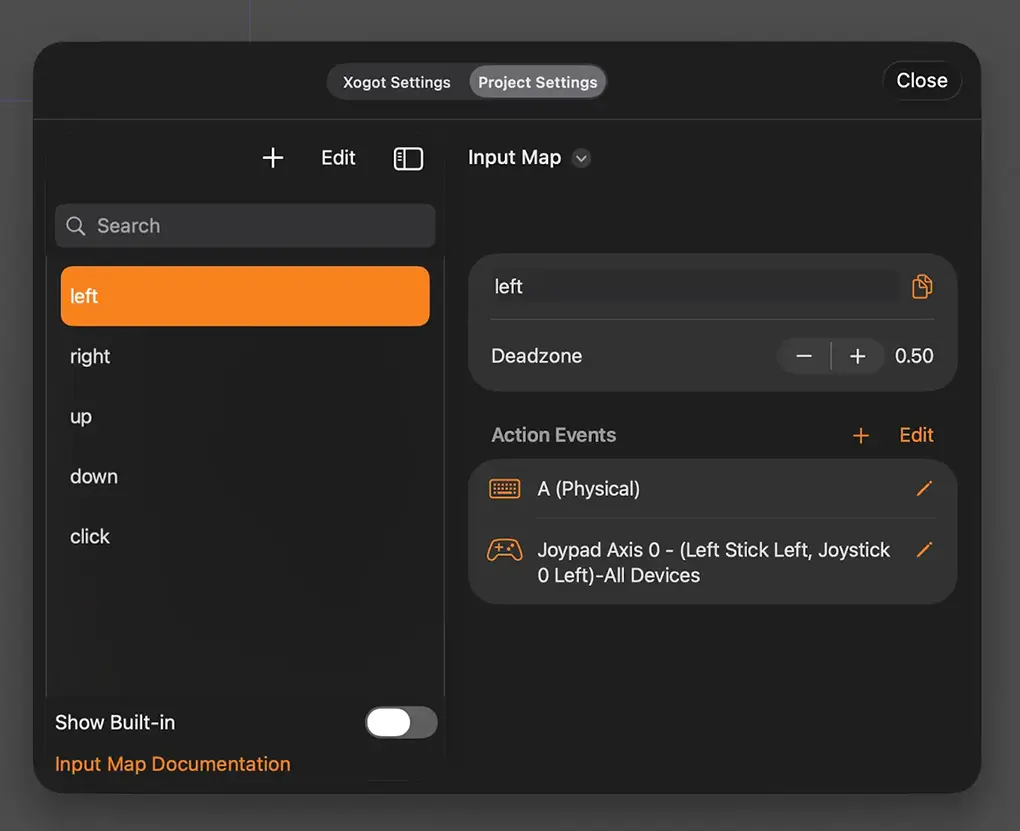
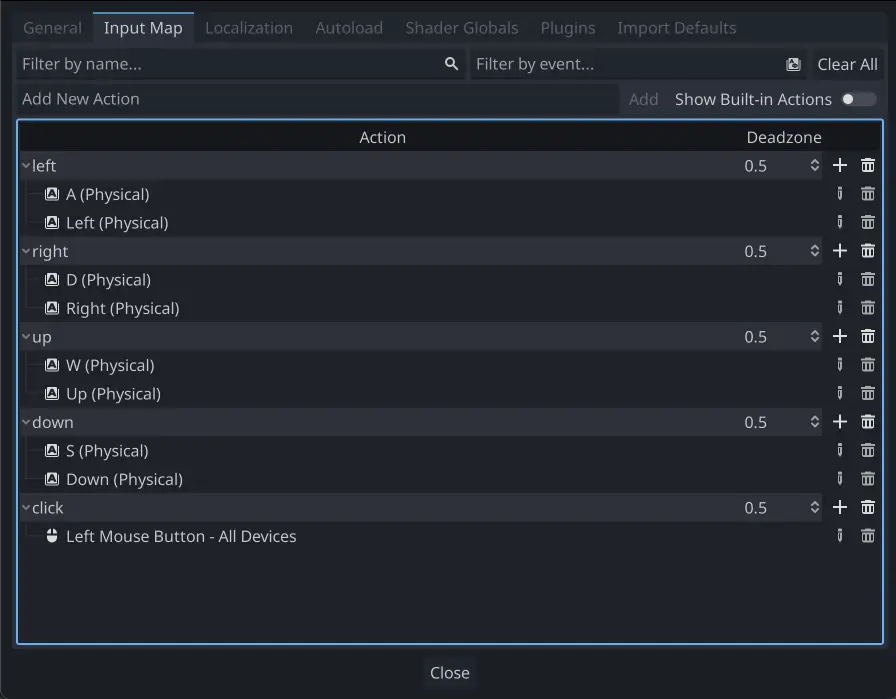
Revise 2D movement manual and update input image
Streamlined the 2D movement documentation by removing embedded code samples and video links, clarifying instructions, and updating the sample project download link. Also replaced the movement_inputs.png image to reflect the latest input mapping.

diff --git a/Documentation.docc/Manual/2d/2d_movement.md b/Documentation.docc/Manual/2d/2d_movement.md
@@ -1,3 +1,4 @@
+<!-- Remove this line to publish to docs.xogot.com -->
 # 2D movement overview
 
 ## Introduction
@@ -15,34 +16,18 @@ Each example below uses the same scene setup. Start with a CharacterBody2D with 
 children: Sprite2D and CollisionShape2D. You can use the Godot icon ("icon.png")
 for the Sprite2D's texture or use any other 2D image you have.
 
-Open your project, tap the upper left menu icon, and then open Settings. Navigate to the drop down menu and open the  the "Input Map" tab. Add the following
+Open Project -> Project Settings and select the "Input Map" tab. Add the following
 input actions (see <doc:inputevent> for details):
 
 @Image(source: "movement_inputs.png")
-*Expand on the action events for each Input. Following standard WASD and joystick axis controls. Set the Click to Left Mouse Button.* 
 
 ## 8-way movement
-
 
 In this scenario, you want the user to press the four directional keys (up/left/down/right
 or W/A/S/D) and move in the selected direction. The name "8-way movement" comes from the
 fact that the player can move diagonally by pressing two keys at the same time.
 
 Add a script to the character body and add the following code:
-
-```gdscript
-extends CharacterBody2D
-
-@export var speed = 400
-
-func get_input():
-	var input_direction = Input.get_vector("left", "right", "up", "down")
-	velocity = input_direction * speed
-
-func _physics_process(delta):
-	get_input()
-	move_and_slide()
-```
 
 In the get_input() function, we use [Input](https://docs.godotengine.org/en/stable/classes/class_input.html#class-input) get_vector() to check for the
 four key events and sum return a direction vector.
@@ -53,9 +38,6 @@ length of 1, by our desired speed.
 > Tip: If you've never used vector math before, or need a refresher,
 > you can see an explanation of vector usage in Godot at <doc:vector_math>.
 >
-
-[![8-way movement demo](https://img.youtube.com/vi/asJtxd2eyk8/hqdefault.jpg)](https://youtu.be/asJtxd2eyk8?si=5ZcsXxGrjs5UrBV2)
-*Video demo — demonstrates 8-way movement controls.*
 
 > Note:
 >
@@ -73,24 +55,6 @@ while up/down moves it forward or backward in whatever direction it's facing.
 Here we've added two variables to track our rotation direction and speed.
 The rotation is applied directly to the body's rotation property.
 
-```gdscript
-extends CharacterBody2D
-
-@export var speed = 400
-@export var rotation_speed = 1.5
-
-var rotation_direction = 0
-
-func get_input():
-	rotation_direction = Input.get_axis("left", "right")
-	velocity = transform.x * Input.get_axis("down", "up") * speed
-
-func _physics_process(delta):
-	get_input()
-	rotation += rotation_direction * rotation_speed * delta
-	move_and_slide()
-```
-
 To set the velocity, we use the body's transform.x which is a vector pointing
 in the body's "forward" direction, and multiply that by the speed.
 
@@ -100,20 +64,6 @@ This style of movement is a variation of the previous one. This time, the direct
 is set by the mouse position instead of the keyboard. The character will always
 "look at" the mouse pointer. The forward/back inputs remain the same, however.
 
-```gdscript
-extends CharacterBody2D
-
-@export var speed = 400
-
-func get_input():
-	look_at(get_global_mouse_position())
-	velocity = transform.x * Input.get_axis("down", "up") * speed
-
-func _physics_process(delta):
-	get_input()
-	move_and_slide()
-```
-
 Here we're using the [Node2D](https://docs.godotengine.org/en/stable/classes/class_node2d.html#class-node2d) look_at() method to
 point the player towards the mouse's position. Without this function, you
 could get the same effect by setting the angle like this:
@@ -122,28 +72,6 @@ could get the same effect by setting the angle like this:
 
 This last example uses only the mouse to control the character. Clicking
 on the screen will cause the player to move to the target location.
- 
-[![Click-and-move demo](https://img.youtube.com/vi/I8Mxltv2BUk/hqdefault.jpg)](https://youtu.be/I8Mxltv2BUk?si=_aGOagF999d_rvlj)
-*Video demo — a concise walkthrough of the click-and-move mechanics.*
-
-```gdscript
-extends CharacterBody2D
-
-@export var speed = 400
-
-var target = position
-
-func _input(event):
-	# Use is_action_pressed to only accept single taps as input instead of mouse drags.
-	if event.is_action_pressed(&"click"):
-		target = get_global_mouse_position()
-
-func _physics_process(delta):
-	velocity = position.direction_to(target) * speed
-	# look_at(target)
-	if position.distance_to(target) > 10:
-		move_and_slide()
-```
 
 Note the distance_to() check we make prior to movement. Without this test,
 the body would "jitter" upon reaching the target position, as it moves
@@ -162,4 +90,5 @@ direction of motion if you prefer.
 You may find these code samples useful as starting points for your own projects.
 Feel free to use them and experiment with them to see what you can make.
 
-You can download a sample project from the Learning Center.
+You can download this sample project here:
+2d_movement_starter.zip
